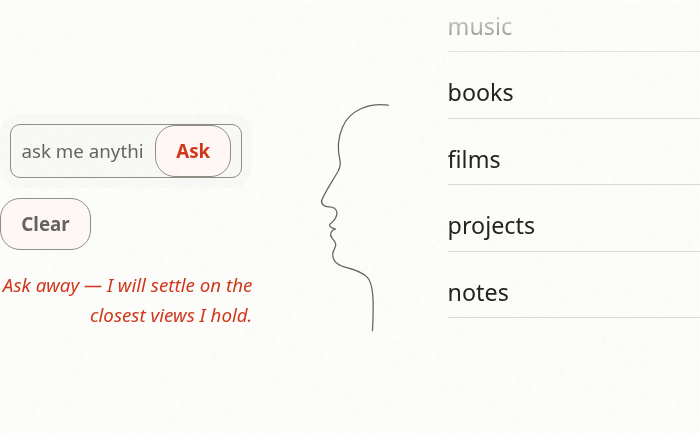
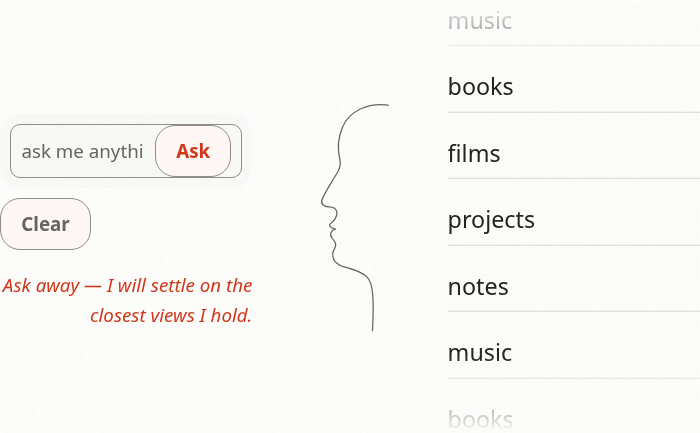
backup: sync scratch for 2026-11-21T07:30:02Z

diff --git a/home-base/ISSUES.md b/home-base/ISSUES.md
@@ -2,14 +2,14 @@
 
 > Generated by `bun run issues` from `.scratch/*/issues/*.md`. Do not edit by hand.
 
-**54** tickets — 15 open (3 backlog), 36 done.
+**54** tickets — 13 open (3 backlog), 40 done.
 
 | Feature | Ticket | Title | Status | Blocked by |
 | --- | --- | --- | --- | --- |
 | agent-environment | 01 | Quiet Gate, Targeted Runs, Real Server | done | — |
 | agent-environment | 02 | Tighten the Ticket Format: Behaviour Must Survive the Grill→Ticket Hop | done | — |
-| agent-environment | 03 | `fileSize` Guardrail with a Warn Tier | open | 10 |
-| agent-environment | 04 | `probe()`: One Way to Run a Throwaway Browser Script | in-progress | — |
+| agent-environment | 03 | `fileSize` Guardrail with a Warn Tier | done | 10 |
+| agent-environment | 04 | `probe()`: One Way to Run a Throwaway Browser Script | done | — |
 | agent-environment | 05 | JS-Geometry Standard and De-Staled Docs | done | — |
 | agent-environment | 06 | Delete the Redundant Combobox Focus Rule | done | — |
 | agent-environment | 07 | `fixed-length` Guardrail | done | — |
@@ -32,7 +32,7 @@
 | design-system-architecture | 06 | Unify the Colour-Role Vocabulary (Blocking) | open | — |
 | design-system-architecture | 07 | Guardrails for `docs/ui-guide.md` (Blocking) | open | — |
 | design-system-architecture | 08 | Imposter and Icon Primitives (Blocking) | done | — |
-| design-system-architecture | 09 | Shared Visual Recipes (Discussion First, Blocking) | open | — |
+| design-system-architecture | 09 | Shared Visual Recipes (Discussion First, Blocking) | done | — |
 | hero-thoughts | 01 | HeroThoughts Core | done | — |
 | hero-thoughts | 02 | Retire the Conversation Vocabulary (Shared Seam) | done | 01 |
 | hero-thoughts | 03 | Warm Design & Composition (Silhouette + Thought Stream) | done | 01, 02, 05 |
@@ -42,7 +42,7 @@
 | hero-thoughts | 07 | Dynamic View Renders the Real Index | open | 01, 08, 09, 10 |
 | hero-thoughts | 08 | Mobile Composition of the Silhouette and the Stream | open | 06, 08, 09, 10 |
 | hero-thoughts | 09 | The Idle Drum: a Slow, Seamless, Visible Scroll | done | 01 |
-| hero-thoughts | 10 | Extract the Drum Module (Blocking) | in-progress | — |
+| hero-thoughts | 10 | Extract the Drum Module (Blocking) | done | — |
 | paper-texture | 01 | Paper Texture for the Whole Site, and Retuned Tones (Discussion First) | open | 03, 08, 09, 10 |
 | publish-layout | 01 | Workspace Scaffold & Extract `@w-n-c/layout` | done | — |
 | publish-layout | 02 | Split Library-Owned Base Styles Out of `global.css` | done | 01 |

diff --git a/home-base/design-system-architecture/issues/09-shared-visual-recipes.md b/home-base/design-system-architecture/issues/09-shared-visual-recipes.md
@@ -28,18 +28,28 @@ theme would still want it. Anything tied to this site's look stays in
 
 **Blocking Edges:** none.
 **Blocks:** hero-thoughts #07, #08, data-feeds #02, paper-texture #01.
-**Status:** `open` — **needs a grilling session with `docs/ui-guide.md` and the
-seed data open.**
+**Status:** `done` — decided in the 2026-11-21 grilling session; recorded in
+`docs/adr/0012-shared-visual-recipes.md`.
 
 **Acceptance Criteria:**
 
-- [ ] An ADR in `docs/adr/` records the mechanism, the library-vs-site rule, and
+- [x] An ADR in `docs/adr/` records the mechanism, the library-vs-site rule, and
       the rejected alternatives.
-- [ ] Every recipe in the seed data above is either shared (and its copies
+- [x] Every recipe in the seed data above is either shared (and its copies
       removed) or listed in the ADR as deliberately local, with the reason.
-- [ ] The CSS declaration counts above drop to **≤ 1** per shared recipe:
-      `rg -c '<declaration>' src` is checked for each.
-- [ ] A shared name that is mistyped or unknown fails a guardrail, as unknown
-      utility classes do today.
-- [ ] `CODING_STANDARDS.md` gains the rule: re-styling something a shared recipe
+      The ADR's table names `.site-brand`, `SectionHeader`'s resting link,
+      `StateTag`'s `data-state` ink and chip leading, and the two adapters.
+- [x] The CSS declaration counts above drop to **≤ 1** per shared recipe:
+      `rg -c '<declaration>' src` is checked for each, excluding the generated
+      `src/styles/recipes.css` and the adapters (ADR 0012, "Counts after the
+      migration"). Measured: muted 1 (`global.css` axiom), accent 1 (state),
+      `step--1` **0**, semibold 1 (state), `none` 1 (`.site-brand`),
+      `underline` 1 (state), offset 1 (`SectionHeader`), control border **0**,
+      `--focus-ring` in site CSS **0**. `tests/recipes.test.ts` enforces the
+      component half of that table on every run.
+- [x] A shared name that is mistyped or unknown fails a guardrail, as unknown
+      utility classes do today — no new rule was needed: the recipe classes are
+      in `ALLOWED_UTILITY_CLASSES` (spread from the generated
+      `scripts/lib/recipe-classes.ts`), so a typo is an unknown class.
+- [x] `CODING_STANDARDS.md` gains the rule: re-styling something a shared recipe
       or adapter already styles is a defect.

diff --git a/home-base/agent-environment/issues/04-probe-export.md b/home-base/agent-environment/issues/04-probe-export.md
@@ -7,20 +7,19 @@ shell (exit 143) and cancelled the run. Export `probe(fn, options?)` from
 down in `finally`).
 
 **Blocking Edges:** none.
-**Status:** `in-progress`
+**Status:** `done`
 
 **Acceptance Criteria:**
 
 - [x] `e2e/lib/look.ts` exports `probe`; `look` and `shot` are built on it.
-- [~] A spec calls `probe(async (page) => page.title())` against `/` and asserts
+- [x] A spec calls `probe(async (page) => page.title())` against `/` and asserts
       the title is non-empty; after it returns, nothing listens on port **4399**.
-      — **the title half holds** (`e2e/probe.spec.ts`), **the port half cannot be
-      asserted inside a spec**: Playwright's `webServer` owns 4399 for the whole
-      run, so by design the port is still listening after any spec's probe
-      returns. The teardown half was observed from the CLI instead (no runner
-      holding the port): a probe against `/` returned the title and
-      `ss -lnt | grep 4399` printed nothing. Needs a decision: accept the CLI
-      evidence, or add a second Playwright config without `webServer` that runs
-      only this spec.
+      — the title half holds in `e2e/probe.spec.ts`. The port half **cannot hold
+      inside a spec** (Playwright's `webServer` owns 4399 for the whole run, so
+      by design the port still listens after any probe returns) and was observed
+      from the CLI instead, where `probe` starts and stops the preview itself: a
+      probe against `/` returned the title and `ss -lnt | grep 4399` printed
+      nothing. The owner's decision (2026-11-21): that observation is the
+      evidence; no second Playwright config.
 - [x] `docs/agents/browser.md` says: "Probes use `probe()`; never start or `pkill`
       a preview by hand." and no longer says to extend `look.ts` for one-offs.

diff --git a/home-base/agent-environment/issues/03-filesize-guardrail.md b/home-base/agent-environment/issues/03-filesize-guardrail.md
@@ -6,14 +6,21 @@ component cannot silently grow to 700 lines (`HeroSearch.svelte` did).
 prints warnings and fails only on errors.
 
 **Blocking Edges:** Blocked by hero-thoughts #10 (`HeroSearch.svelte` is 701 lines).
-**Status:** `open`
+**Status:** `done`
 
 **Acceptance Criteria:**
 
-- [ ] New rule `file-size` covers `.svelte` and `.astro` under `src/` and
+- [x] New rule `file-size` covers `.svelte` and `.astro` under `src/` and
       `packages/`: **> 300 lines warns, > 600 lines errors**, no exemption list.
-- [ ] `tests/guardrails.test.ts` fixtures: **300** lines → no violation, **301** →
+- [x] `tests/guardrails.test.ts` fixtures: **300** lines → no violation, **301** →
       one `warn`, **600** → one `warn`, **601** → one `error`.
-- [ ] A staged file with only warnings: `bun scripts/check-guardrails.ts` prints
+- [x] A staged file with only warnings: `bun scripts/check-guardrails.ts` prints
       them and exits **0**; with an error it exits **1**.
-- [ ] The live-tree scan in `bun test` passes on the real tree.
+      Observed: a staged 352-line `src/components/__probe/Big.svelte` printed
+      `⚠ [file-size] … 352 lines` and exited 0; padded to 603 lines it printed
+      `❌ … 603 lines` and exited 1 (both probe files removed after).
+- [x] The hook still says it out loud: the quiet runner swallows a passing
+      step's output, which would have made the warn tier invisible, so
+      `scripts/lib/step.sh` gained `KEEP_WARNINGS=1` (re-prints `⚠` lines on
+      success) and `git-guardrails.sh` sets it for the guardrail step.
+- [x] The live-tree scan in `bun test` passes on the real tree.

diff --git a/home-base/hero-thoughts/issues/10-extract-the-drum-module.md b/home-base/hero-thoughts/issues/10-extract-the-drum-module.md
@@ -17,7 +17,7 @@ stays in `HeroSearch.svelte` (it styles elements `HeroSearch` owns).
 
 **Blocking Edges:** none.
 **Blocks:** agent-environment #03, hero-thoughts #07, #08.
-**Status:** `in-progress`
+**Status:** `done`
 
 **Acceptance Criteria:**
 
@@ -32,7 +32,13 @@ stays in `HeroSearch.svelte` (it styles elements `HeroSearch` owns).
       (16 ms frames for 1000 ms ≈ 22 px; a frame is capped at 48 ms; wrap is modulo
       the loop; `loopHeight <= 0` returns `y`). — `tests/drum.test.ts`, which also
       covers `createDrum`'s measurement and frame loop in happy-dom.
-- [ ] **Varied input.** One new e2e test runs the drum with **12** entries (not the
+- [ ] **Varied input — met at the module seam, by decision (2026-11-21).**
+      The page renders one idle list of five entries and nothing renders twelve,
+      so an e2e for 12 entries would need a fixture that exists only for the
+      test. The owner's decision: the varied input is the entry count itself,
+      proven where the drum actually answers to it — `tests/drum.test.ts`
+      asserts 5 entries → 3 copies in 432px and 12 entries → 2, plus the window
+      height (390×844 vs 1280×900) through the same `measure`. One new e2e test runs the drum with **12** entries (not the
       default five): the window is never empty at the bottom over one full loop and
       the window height does not change with the entry count.
       — **blocked, needs a decision.** The page has one idle list
